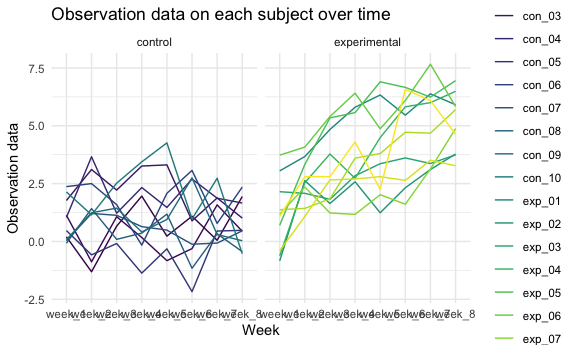
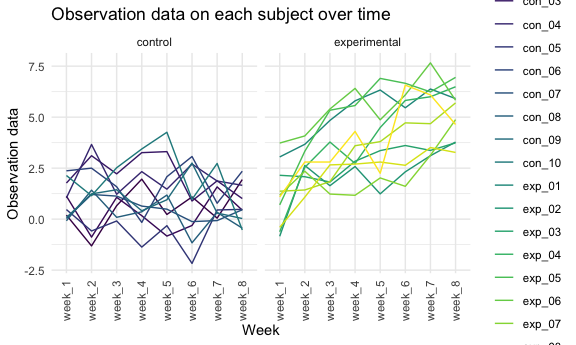
updating spaggheti plot x axis

diff --git a/p8105_hw5_rr3423.md b/p8105_hw5_rr3423.md
@@ -320,6 +320,7 @@ tidy_participants_df %>%
   ggplot(aes(x = week, y = observation_data, color = subject_id)) + 
   geom_line(aes(group = subject_id)) + 
   facet_grid(.~ study_arm) +
+  theme(axis.text.x = element_text(angle = 90, vjust = 0.5, hjust = 1)) +
   labs(
     title = "Observation data on each subject over time",
     x = "Week", 
